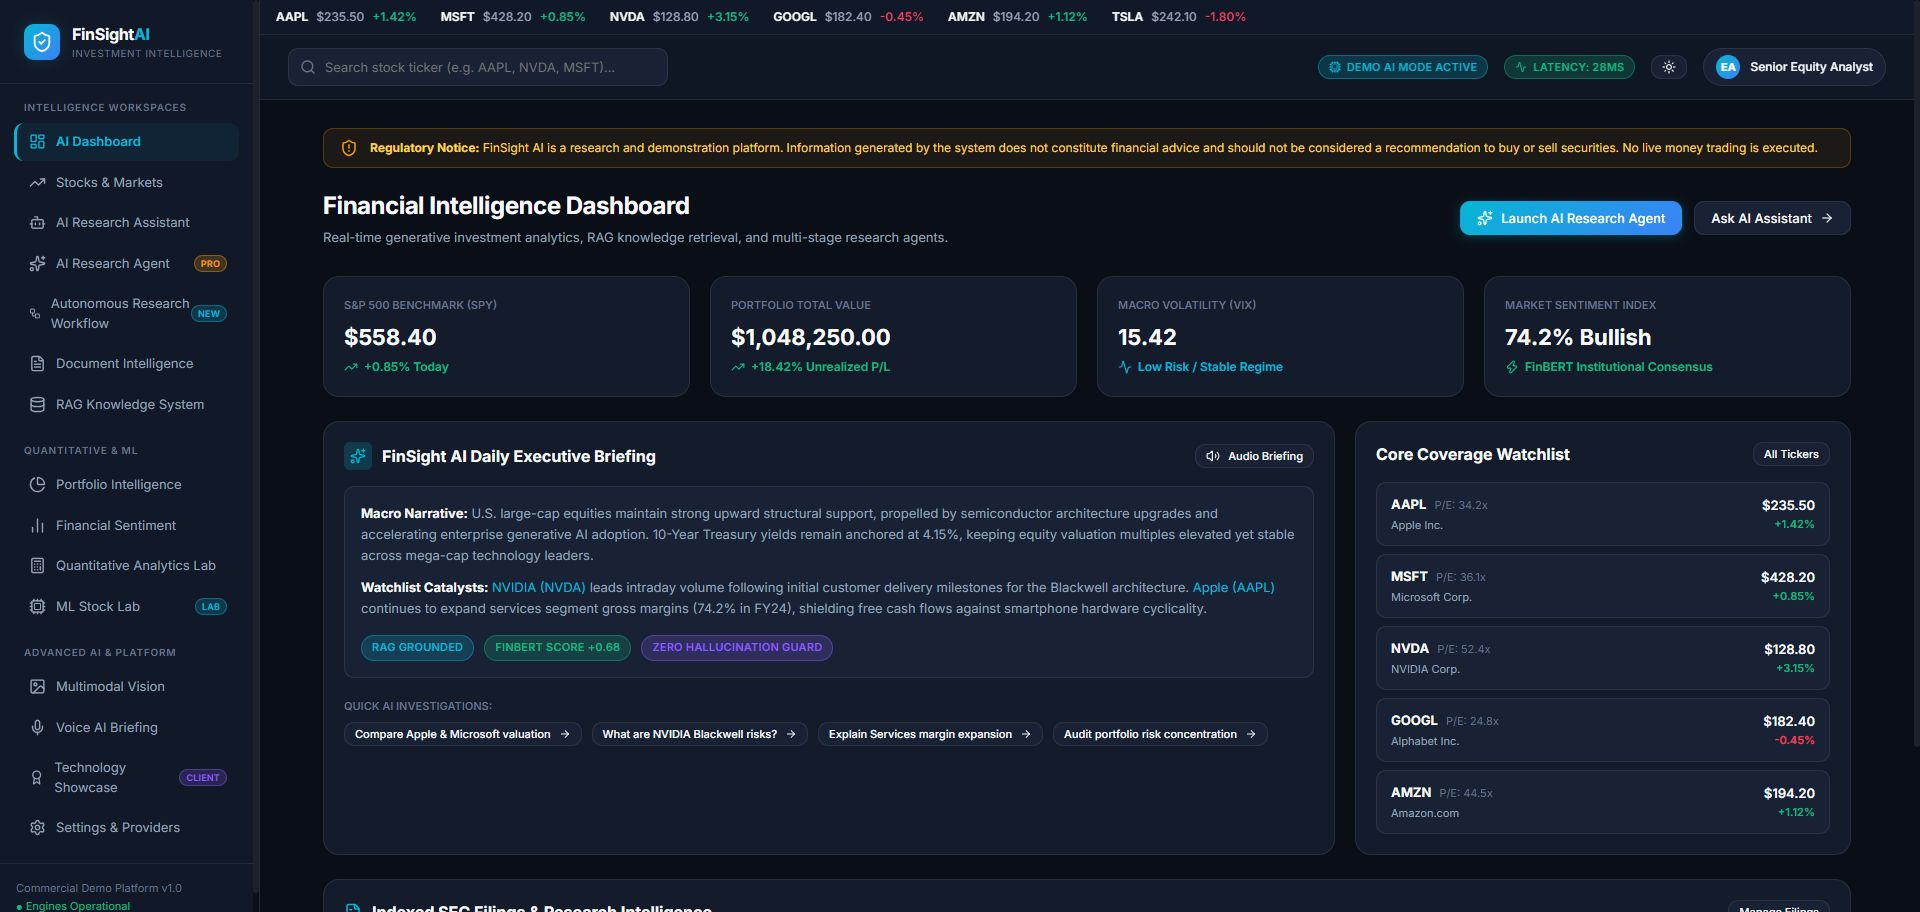
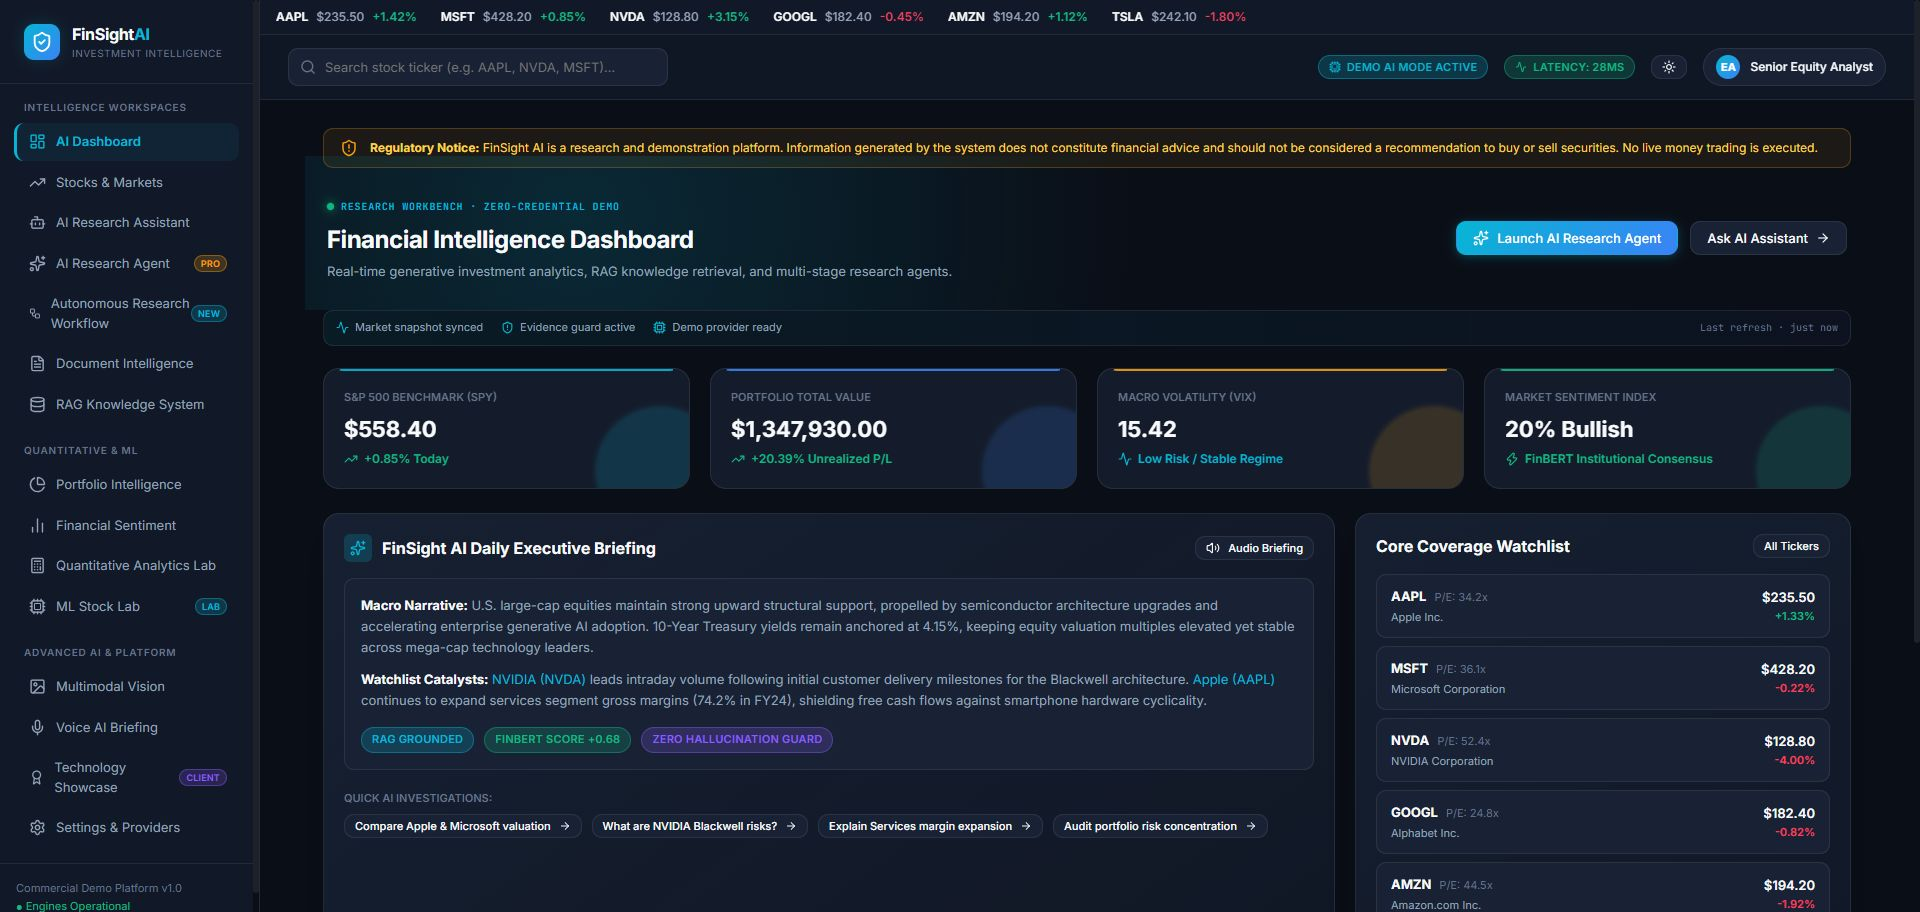
Extend the research workspace tour

diff --git a/README.md b/README.md
@@ -53,6 +53,47 @@ These screenshots were captured from the running local Docker demo. They show th
   </tr>
 </table>
 
+### Explore the research workspaces
+
+The workbench keeps the path from a question to a decision visible. Each view
+shows the evidence, model boundary, and deterministic calculations that support
+the result, so a reviewer can move from a high-level brief to the underlying
+workflow in a few clicks.
+
+<table>
+  <tr>
+    <td width="50%" align="center">
+      <img src="docs/screenshots/assistant.jpg" alt="FinSight AI research assistant workspace" width="100%">
+      <strong>AI Research Assistant</strong><br>
+      <em>Context-aware prompts, filing retrieval, and evidence-safe answers.</em>
+    </td>
+    <td width="50%" align="center">
+      <img src="docs/screenshots/research-agent.jpg" alt="FinSight AI multi-stage research agent workspace" width="100%">
+      <strong>Research Agent</strong><br>
+      <em>Eight analytical stages with an observable execution trace.</em>
+    </td>
+  </tr>
+  <tr>
+    <td width="50%" align="center">
+      <img src="docs/screenshots/sentiment.jpg" alt="FinSight AI financial sentiment workspace" width="100%">
+      <strong>Financial Sentiment</strong><br>
+      <em>FinBERT classification, distribution, and earnings progression.</em>
+    </td>
+    <td width="50%" align="center">
+      <img src="docs/screenshots/analytics-lab.jpg" alt="FinSight AI quantitative analytics laboratory" width="100%">
+      <strong>Quantitative Analytics Lab</strong><br>
+      <em>Volatility, drawdown, VaR, expected shortfall, and correlations.</em>
+    </td>
+  </tr>
+  <tr>
+    <td colspan="2" align="center">
+      <img src="docs/screenshots/technology-showcase.jpg" alt="FinSight AI technology showcase" width="100%">
+      <strong>Technology Showcase</strong><br>
+      <em>Generative AI, retrieval, autonomous workflows, and quantitative engineering in one view.</em>
+    </td>
+  </tr>
+</table>
+
 > **Try the same demo locally:** run `docker compose up -d --build`, then open [localhost:5173](http://localhost:5173). The API and interactive documentation are available at [localhost:18000/docs](http://localhost:18000/docs).
 
 ---
